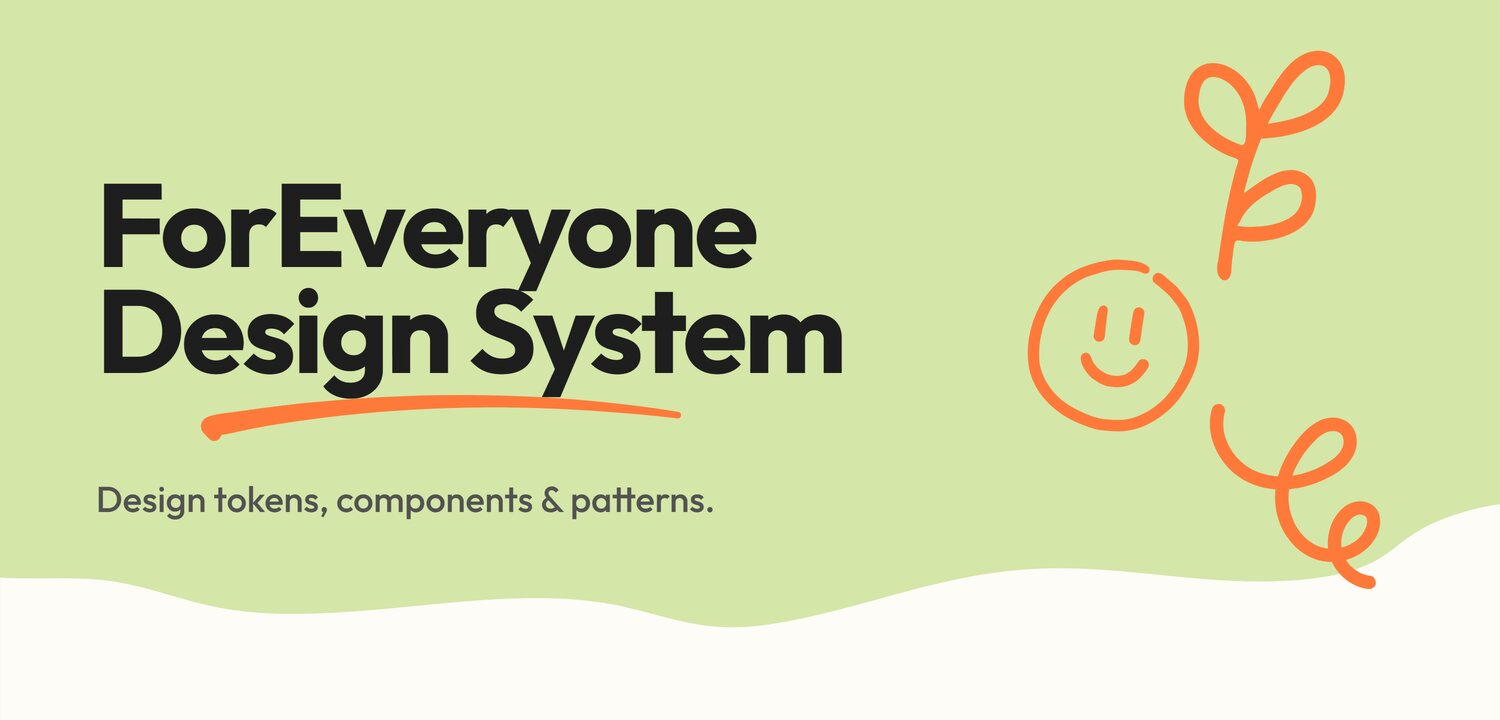
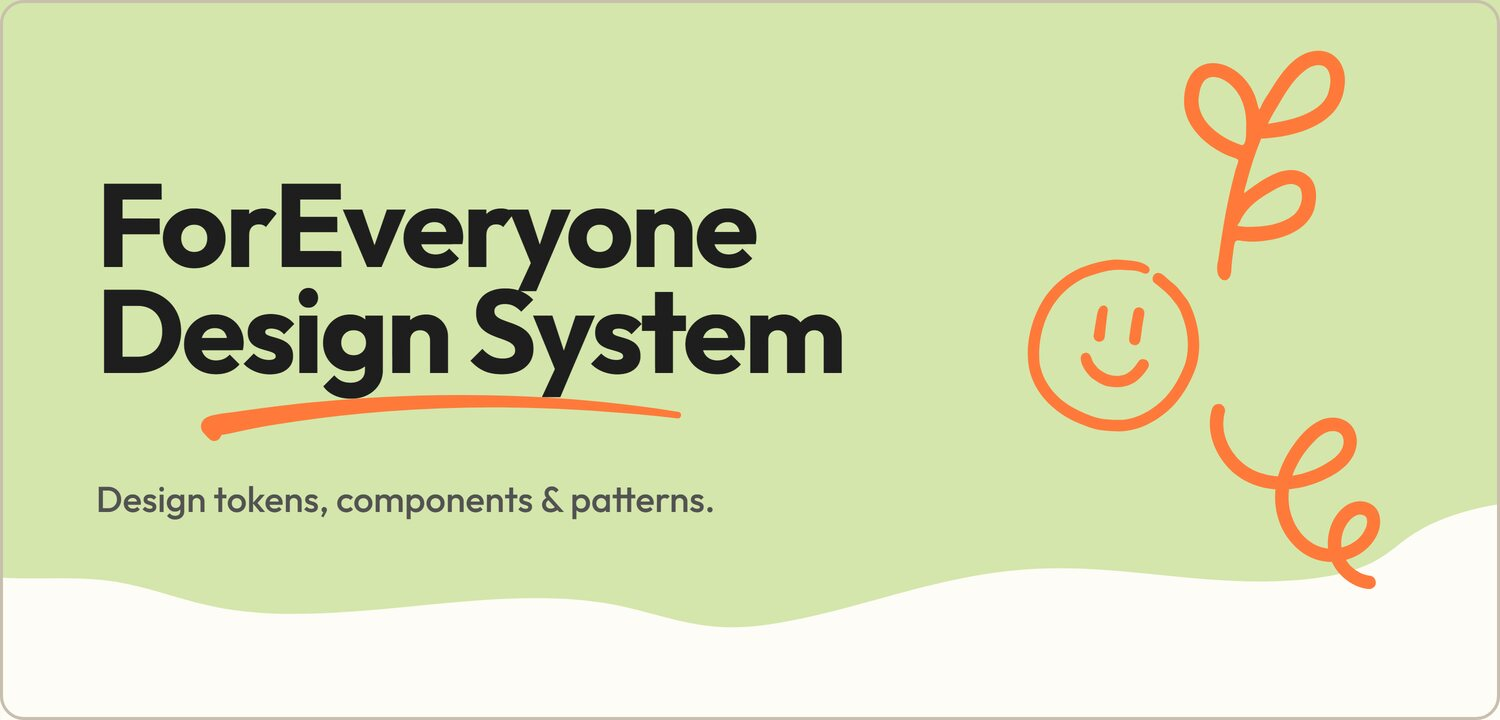
chore: release 1.7.1
Bake a light rounded outline into the social and README share cards so their
edges stay visible on white pages and in link previews.

Changed region(s): [[0.0, 0.0, 1.0, 1.0]]

diff --git a/prototype/public/images/ASSETS.md b/prototype/public/images/ASSETS.md
@@ -28,8 +28,8 @@ Card luminance is kept within a narrow band so the four cards read as one row; c
 
 These are rendered from the design system by Node scripts, not photographed.
 
-- `social-preview.jpg` Open Graph / Twitter / GitHub social card, `doodle-v1` composition: "ForEveryone Design System" over a Lime Green field, an orange doodle underline, sprout/smiley/swirl marks on the right, a Warm White wave band, at 1200x630 (1.91:1) per OG best practice (~53 KB). No wordmark lockup: the headline already carries the brand name. Also upload this file as the GitHub repo social preview (Settings → General → Social preview).
-- `readme-hero.jpg` README hero on GitHub, same composition at 1500x720 (~2.08:1, ~63 KB). Regenerate both cards (design-system-driven HTML rendered with Chromium) via `node scripts/build-og-card.mjs [variant] [outDir]`, then convert the temp PNGs to JPG with ImageMagick (`-resize`, `-quality 84 -strip`). Variants: `doodle` (shipped composition), `blobs` (default flag value, layered brand blobs with a swatch row), `ramp` (OKLCH token scales), `type` (type-scale specimen). Colours are read from the generated `css/custom-properties.css`, so a token change flows into the cards; never hardcode hex in the generator.
+- `social-preview.jpg` Open Graph / Twitter / GitHub social card, `doodle-v1` composition: "ForEveryone Design System" over a Lime Green field, an orange doodle underline, sprout/smiley/swirl marks on the right, a Warm White wave band, at 1200x630 (1.91:1) per OG best practice (~58 KB). Light rounded outline (`--radius-xl`, warm-grey stroke) baked in so the edge stays visible in link previews. No wordmark lockup: the headline already carries the brand name. Also upload this file as the GitHub repo social preview (Settings → General → Social preview).
+- `readme-hero.jpg` README hero on GitHub, same composition at 1500x720 (~2.08:1, ~69 KB), including the same rounded outline so the Warm White wave does not dissolve into GitHub's white page. Regenerate both cards (design-system-driven HTML rendered with Chromium) via `node scripts/build-og-card.mjs [variant] [outDir]`, then convert the temp PNGs to JPG with ImageMagick (`-resize`, `-quality 84 -strip`). Variants: `doodle` (shipped composition), `blobs` (default flag value, layered brand blobs with a swatch row), `ramp` (OKLCH token scales), `type` (type-scale specimen). Colours are read from the generated `css/custom-properties.css`, so a token change flows into the cards; never hardcode hex in the generator.
 
 - `guide-og-doodle.jpg` Open Graph / social card for the **Belonging Guide** funnel pages on foreveryone.berlin (`/guide`, `/guide-confirmed`), at 1200x630 (~36 KB). Lime Green field, "Belonging in Berlin" over an orange doodle underline, sprout/smiley/swirl marks on the right, Warm White wave band with the horizontal lockup. This is a **website** card, not a design-system card: it is tracked here so the funnel pages have a reviewed source, but it does not replace `social-preview.jpg`. Regenerate with `node prototype/scripts/build-guide-og.mjs [doodle|photo|blobs|all] [outDir]`; output defaults to the gitignored `.artifacts/images/`. Copy deck lives in the `COPY` object at the top of that script. Renders in Outfit, the documented Filson Pro stand-in.
 

diff --git a/CHANGELOG.md b/CHANGELOG.md
@@ -8,6 +8,12 @@
 
 ## [Unreleased]
 
+## [1.7.1] - 2026-09-12
+
+A visible edge on the share cards.
+
+- **Fix**: Give the README hero and the social share card a light rounded outline so their edges stay visible on a white page and in link previews.
+
 ## [1.7.0] - 2026-09-12
 
 Licensed stock photography in place of the unconfirmed event photos.
